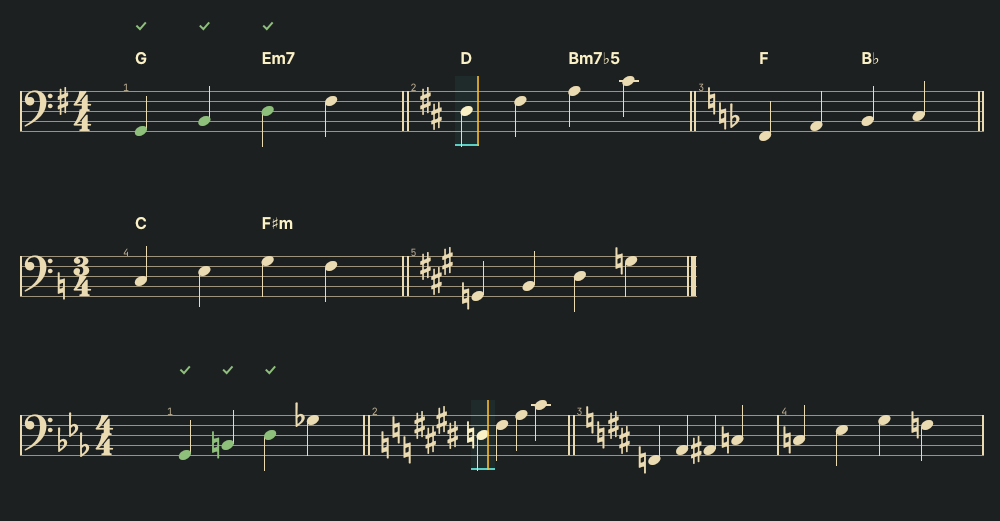
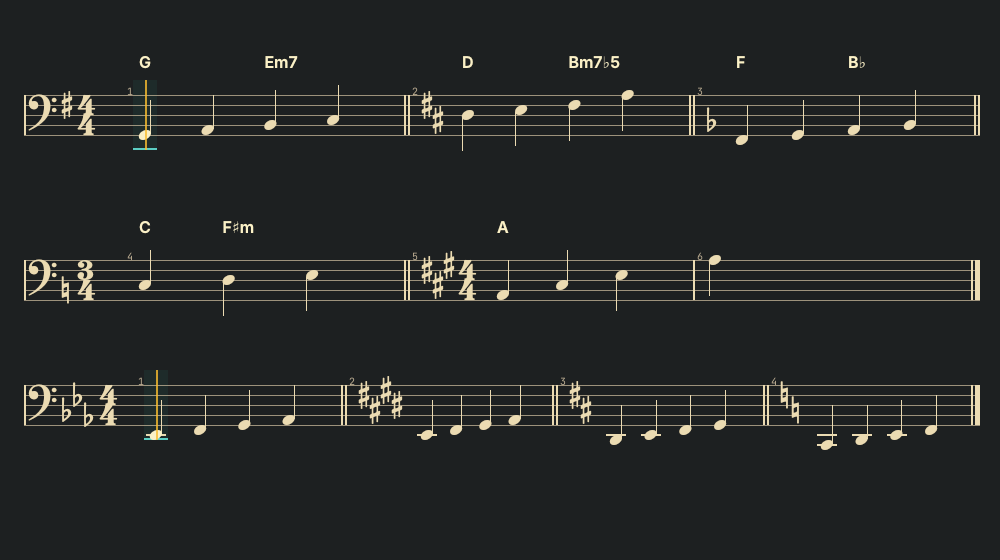
Show naturals only when a key returns to C
Owner's rule: naturals stand alone. A key change to another key with
signs shows just the new signature after the thin double bar line,
which reads as a new section; only a change to C shows naturals for
the old key. Long runs of naturals plus new signs (three naturals and
four sharps from E flat to E) are gone. Tests, README, landing page
and the catalogue shots follow.

Claude-Session: https://claude.ai/code/session_01L78cyqucFPqcWPiKsiXSH8

diff --git a/proposals/2026-10-kontra/bauteile.html b/proposals/2026-10-kontra/bauteile.html
@@ -24,7 +24,7 @@
 <section><h2 class="block-title">1.24 · KanteSettingRow at doubled font size</h2><p>The hint is smaller than the title again: <code>KanteStyle.smallFont</code> is never larger than the default font (Kirigami's basic theme reports a larger one).</p><figure><img src="settingrow-200-kante.png" alt="Two setting rows, hint below and smaller than the title"></figure></section>
 <section><h2 class="block-title">1.27 · controls, primary action, steps</h2><p>Wishes from Kontra's QA round. <code>KanteSwitch</code> and <code>KanteComboBox</code>: Kante's switch and field skins, and the combo box's open list on a cut card with Kante rows (the row under pointer or keyboard tinted and edged in cyan, the chosen one bold). Kante Light keeps the platform's controls, but draws the primary button: filled in the platform highlight moved to 4.5:1 against its label, cut at two corners, bold. <code>KanteSteps</code>: done a check, current a filled number and a 2 px outline, upcoming a hollow number; the bars differ in height too, so the states never differ by colour alone.</p><div class="pair"><figure><img src="wishes-controls-kante.png" alt="Primary, normal and quiet buttons; four steps with done, current and upcoming signs; two switches and an open combo box with Kante rows"><figcaption>Kante</figcaption></figure><figure><img src="wishes-controls-light.png" alt="The same in Kante Light: the primary button filled and bold, platform switch and combo box"><figcaption>Kante Light (platform colours, Fusion controls)</figcaption></figure></div></section>
 <section><h2 class="block-title">1.27 · note state "offpitch"</h2><p>The right note, its pitch off by more than the app's cents limit: a wave, in the warning colour of early and late, with the deviation beside it ("+32 ct", "−18 ct") when the app hands it over. Legend, lane, tablature and bass staff.</p><div class="pair"><figure><img src="offpitch-kante.png" alt="Legend of all note states and lane, tab and bass staff with two offpitch notes and their cents"><figcaption>Kante</figcaption></figure><figure><img src="offpitch-light.png" alt="The same in Kante Light"><figcaption>Kante Light</figcaption></figure></div></section>
-<section><h2 class="block-title">1.27 · chord symbols and key changes</h2><p><code>KanteBassStaff</code>: chord symbols per bar and at a time above the staff (♯ and ♭ typeset); a key per bar: G, D, F, C and A major in turn with a thin double bar line before each change and naturals for what the new key cancels; a change at the start of a line shows in its header. Below: E flat to E major (three naturals, four sharps), then to D major (two naturals for the dropped sharps).</p><div class="pair"><figure><img src="chords-keys-kante.png" alt="Bass staff with chord symbols G, Em7, D, Bm7b5, F, Bb, C, F#m and key changes"><figcaption>Kante</figcaption></figure><figure><img src="chords-keys-light.png" alt="The same in Kante Light"><figcaption>Kante Light</figcaption></figure></div></section>
+<section><h2 class="block-title">1.27 · chord symbols and key changes</h2><p><code>KanteBassStaff</code>: chord symbols per bar and at a time above the staff (♯ and ♭ typeset); a key per bar: G, D, F, C (3/4) and A major in turn with a thin double bar line before each change; naturals stand only alone, when the key returns to C; a change at the start of a line shows in its header. Below: E flat to E major (just four sharps), to D major (just two sharps), then to C (two naturals, alone).</p><div class="pair"><figure><img src="chords-keys-kante.png" alt="Bass staff with chord symbols G, Em7, D, Bm7b5, F, Bb, C, F#m and key changes"><figcaption>Kante</figcaption></figure><figure><img src="chords-keys-light.png" alt="The same in Kante Light"><figcaption>Kante Light</figcaption></figure></div></section>
 <section><h2 class="block-title">Large fonts</h2><p>Font DPI doubled (<code>QT_FONT_DPI=192</code>): grid unit and every size follow, nothing is cut off. Halved for this page.</p><figure><img src="large-fonts-kante.png" alt="Transport, tuner, level, fretboard and bass staff with doubled font size"></figure></section>
 </main>
 </body>

diff --git a/qml/Kante/KanteBassStaff.qml b/qml/Kante/KanteBassStaff.qml
@@ -18,10 +18,11 @@ import "."
  *              signature keep the previous one; 4/4 at first); the time signature shows
  *              on the first bar of the page and where it changes.
  *              keyFifths (1.27, also read as key_fifths): the key from this bar on; a
- *              new key signature shows where it changes (after a thin double bar line),
- *              with naturals for what it cancels: all of the old one towards C or to
- *              the other kind (sharps to flats), the dropped ones when fewer of the same
- *              kind. A change at the start of a line shows at the start of that line.
+ *              new key signature shows where it changes (after a thin double bar line).
+ *              Naturals stand only alone: a change to C shows naturals for the old key;
+ *              any other change shows just the new key, read as a new section without
+ *              cancelling the old one. A change at the start of a line shows at the
+ *              start of that line.
  *              chord (1.27): a chord symbol at the start of the bar
  *   chords     (1.27) [{time, text}]: chord symbols at a time in seconds, above the staff
  *              over the note at that time; with the chords of `bars`, sorted by time.
@@ -310,19 +311,16 @@ Item {
         return Math.max(-7, Math.min(7, Math.round(Number(k) || 0)))
     }
     /**
-     * The signs of a key signature going from key `from` to `to`, left to right: naturals
-     * for what the new key cancels, then the new key. [{pos, sign: 1 sharp, -1 flat, 0 natural}],
-     * pos as in spell() (0 = bottom line). from === to: only the key.
-     *   to C, or sharps <-> flats   naturals for all of the old key
-     *   fewer of the same kind      naturals for the dropped ones (3 sharps to 1: C and G)
-     *   more of the same kind       only the new key
+     * The signs of a key signature going from key `from` to `to`, left to right.
+     * [{pos, sign: 1 sharp, -1 flat, 0 natural}], pos as in spell() (0 = bottom line).
+     * Naturals never mix with new signs (owner's rule, 1.27): only a change to C shows
+     * naturals, for all of the old key; every other change shows just the new key.
      */
     function keySigns(from, to) {
         var sharpPos = [6, 3, 7, 4, 1, 5, 2], flatPos = [2, 5, 1, 4, 0, 3, -1]
         var out = []
-        if (from !== to && from !== 0) {
-            var cancelFrom = (to === 0 || (from > 0) !== (to > 0)) ? 0 : Math.min(Math.abs(to), Math.abs(from))
-            for (var c = cancelFrom; c < Math.abs(from); c++) {
+        if (from !== to && from !== 0 && to === 0) {
+            for (var c = 0; c < Math.abs(from); c++) {
                 out.push({ pos: (from > 0 ? sharpPos : flatPos)[c], sign: 0 })
             }
         }

diff --git a/qml/tests/tst_kante127.qml b/qml/tests/tst_kante127.qml
@@ -253,10 +253,10 @@ TestCase {
     function test_keySigns() {
         var s = createTemporaryObject(bassComponent, stage())
         function signs(a, b) { return s.keySigns(a, b).map(function (x) { return x.pos + ":" + x.sign }).join(" ") }
-        // D major to F major: naturals for F and C, then B flat.
-        compare(signs(2, -1), "6:0 3:0 2:-1")
-        // A major to G major: naturals for the dropped C and G, then F sharp.
-        compare(signs(3, 1), "3:0 7:0 6:1")
+        // Naturals stand only alone: D major to F major shows just B flat.
+        compare(signs(2, -1), "2:-1")
+        // A major to G major: just F sharp, no naturals for the dropped C and G.
+        compare(signs(3, 1), "6:1")
         // More of the same kind: only the new key.
         compare(signs(1, 3), "6:1 3:1 7:1")
         // To C: naturals for all.
@@ -282,17 +282,17 @@ TestCase {
         verify(!s.barList[3].keyChanged)
         compare(s.barList[3].key, -1)
         var L = s.layout
-        // Naturals: two in the change to F major; no note needs one.
-        compare(countGlyph(L, ""), 2)
+        // No naturals: the change to F major shows only its flat; no note needs one.
+        compare(countGlyph(L, ""), 0)
         // Sharps: 1 (header) + 2 (bar 2); flats: 1 (bar 3); F#3 (54) and C#4 (61) in D major need none.
         compare(countGlyph(L, ""), 3)
         compare(countGlyph(L, ""), 1)
         // Spelling follows the bar's key: B flat (46) in F major has no accidental.
         compare(s.spell(46, s.barList[2].key).alter, -1)
-        // A change makes room in its bar, and a thin double bar line before it.
-        verify(s.padLeft(2) > s.padLeft(3) + s.sp * 3)
+        // A change makes room in its bar (one flat), and a thin double bar line before it.
+        verify(s.padLeft(2) > s.padLeft(3) + s.sp * 1.5)
         // The header is wide enough for the widest key a line can start with.
-        compare(s.maxHeaderKey(s.barList), 3)
+        compare(s.maxHeaderKey(s.barList), 2)
         // Screen readers name the pitch in the bar's key.
         s.position = 4.1
         verify(s.Accessible.description.indexOf("F2") > 0, s.Accessible.description)

diff --git a/docs/index.html b/docs/index.html
@@ -140,12 +140,12 @@
           <ul lang="en">
             <li><code>KanteSwitch</code> and <code>KanteComboBox</code>: a switch and a combo box in Kante, the combo box's open list included.</li>
             <li>Note state <code>offpitch</code>: the right note, its pitch off by more than the app's limit. A wave as its sign, the deviation beside it (“+32 ct”).</li>
-            <li><code>KanteBassStaff</code>: chord symbols per bar or at a time, and a key per bar with naturals for what a new key cancels.</li>
+            <li><code>KanteBassStaff</code>: chord symbols per bar or at a time, and a key per bar (naturals only when the key returns to C).</li>
           </ul>
           <ul lang="de">
             <li><code>KanteSwitch</code> und <code>KanteComboBox</code>: Schalter und Auswahlfeld in Kante, die offene Liste des Auswahlfelds eingeschlossen.</li>
             <li>Notenzustand <code>offpitch</code> („unsauber“): der richtige Ton, aber mehr als die Grenze der App verstimmt. Eine Welle als Zeichen, die Abweichung daneben („+32 ct“).</li>
-            <li><code>KanteBassStaff</code>: Akkordsymbole pro Takt oder an einer Zeit und eine Tonart pro Takt, mit Auflösungszeichen für das, was die neue Tonart aufhebt.</li>
+            <li><code>KanteBassStaff</code>: Akkordsymbole pro Takt oder an einer Zeit und eine Tonart pro Takt, Auflösungszeichen nur bei der Rückkehr nach C.</li>
           </ul>
         </div>
         <div class="release-group" data-kind="improved"><h3><span lang="en">Improved</span><span lang="de">Verbessert</span></h3>

diff --git a/README.md b/README.md
@@ -752,7 +752,7 @@ Wishes from a QA round of Kontra, the bass trainer: platform controls that staye
 | Steps | `.steps` (already: tick, inset frame) | `KanteSteps`: a sign per state besides the colour (WCAG 1.4.1): done a check on a filled square and a 4 px bar, current its number on a filled primary square, a 2 px outline round the step and a 6 px bar, upcoming its number in a hollow square and a 2 px bar. Screen readers hear "Schritt 3 von 4: Pegel, aktuell" (`stepText`, `stateNames`). It grows with the label for large fonts |
 | Note state "offpitch" | – | The right note, its pitch off by more than the app's cents limit. `KanteNoteMark` draws a wave (round, where check and cross are straight; level, where the arrows point), in the warning colour it shares with early / late (right note, not quite right). `cents` (NaN = none) shows "+32 ct" / "−18 ct" beside the sign (`showCents`; `centsWidth` for a legend's layout) and is read out ("Unsauber, +32 ct"). `KanteStyle`: `noteStateColor("offpitch")`, `noteStateNames.offpitch` ("Unsauber"), `noteStates` (every state with a sign, legend order), `centsText(c)`, `centsUnit` ("ct"). `KanteTabLane`, `KanteTabStaff`, `KanteBassStaff`: a note's `cents`, `setNoteState(index, state, cents)` (cents optional), `centsOf(index)`, `showCents` (Full marks only); the lane's summary counts it ("Unsauber 2"). `KanteFretboard` has roles, not states, and is unchanged |
 | Chord symbols | – | `KanteBassStaff`: `chords` [{time, text}] and a `chord` per bar (at its start), above the staff, left-aligned over the note at their time; one that would run into the previous moves right. "#" shows as ♯, a "b" after a note letter or before a digit as ♭ ("Bb7" B♭7, "C7b9" C7♭9). The staff moves down by their row only when there are chord symbols. Screen readers hear "Akkord Am7" (`chordText`) |
-| Key per bar | – | `KanteBassStaff`: `bars[i].keyFifths` (also read as `key_fifths`), the key from that bar on. Where it changes: a thin double bar line, then naturals for what the new key cancels (all of the old key towards C or to the other kind, the dropped ones when fewer of the same kind) and the new key; at the start of a line both show in the line's header. Notes are spelled and get accidentals in their bar's key. `keyFifths` stays the key of the first bar; without per-bar keys the layout is the old one |
+| Key per bar | – | `KanteBassStaff`: `bars[i].keyFifths` (also read as `key_fifths`), the key from that bar on. Where it changes: a thin double bar line, then the new key; naturals stand only alone, for all of the old key when the change goes to C, never mixed with new signs; at the start of a line both show in the line's header. Notes are spelled and get accidentals in their bar's key. `keyFifths` stays the key of the first bar; without per-bar keys the layout is the old one |
 
 ### Kante Gold
 
